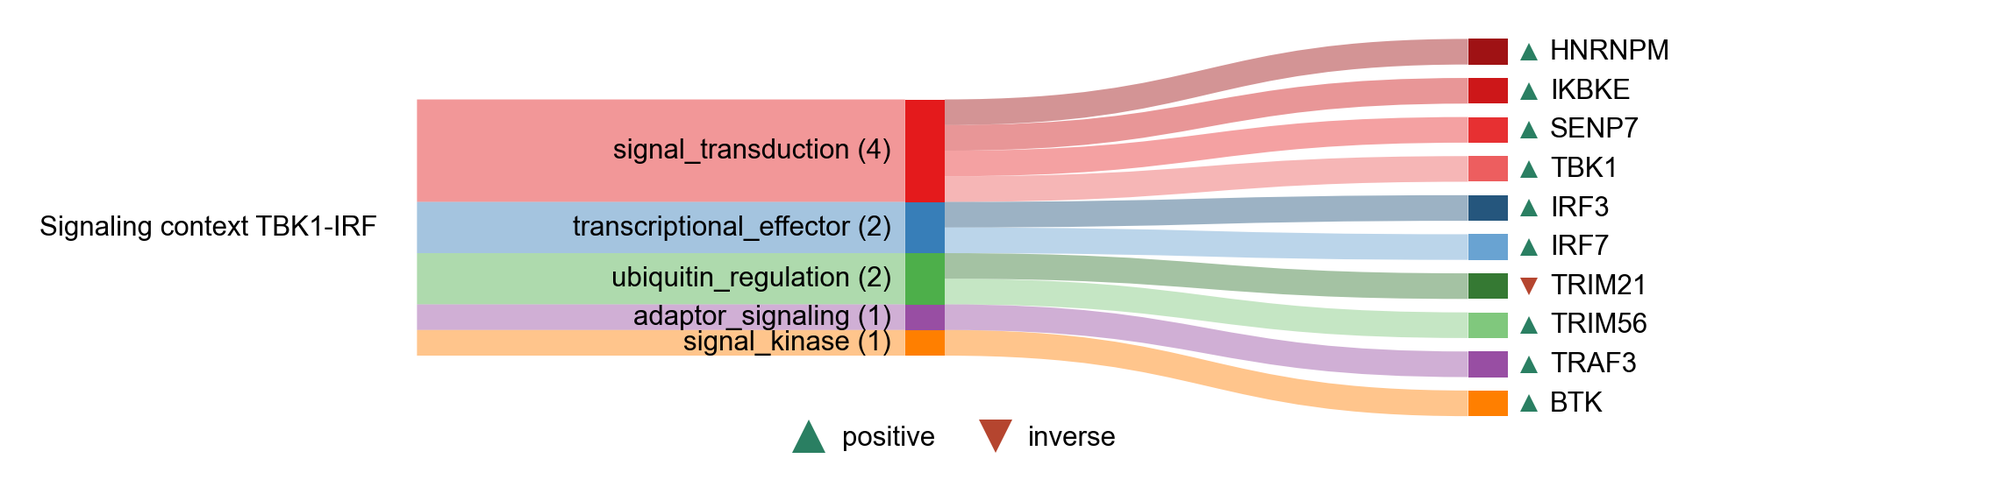
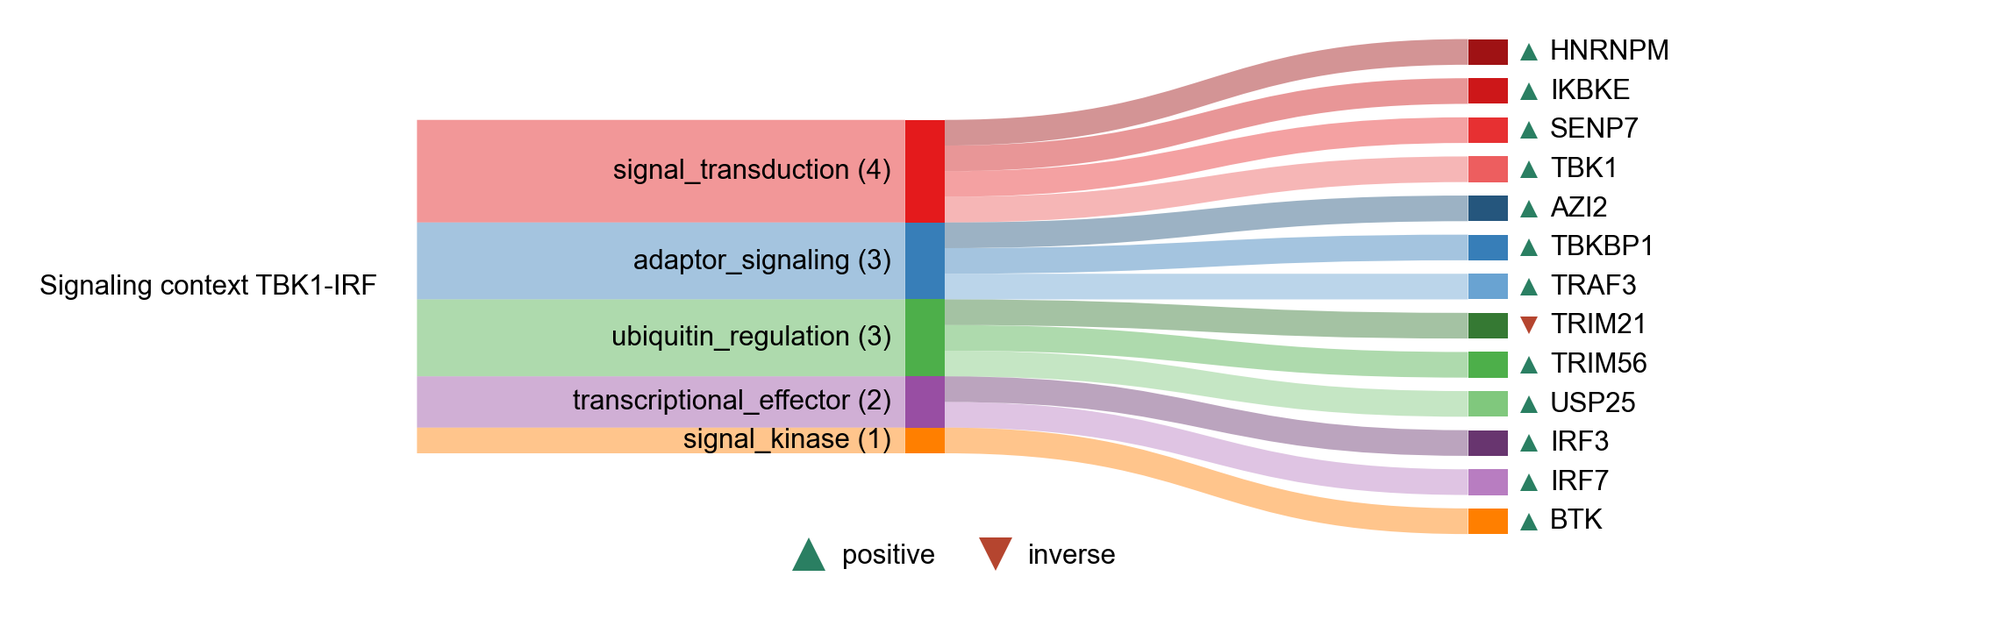
[Fix] Flesh out marker genes and fix duplicate issues

diff --git a/docs/marker_genes/nasp_dna_sensing.md b/docs/marker_genes/nasp_dna_sensing.md
@@ -11,13 +11,13 @@
 | AIM2 | dna_sensing_core | ALR | Early | positive | Immune-enriched | low |  | [10.1038/ni.1702](https://doi.org/10.1038/ni.1702) |  | dna_sensor |  |
 | CGAS | dna_sensing_core | cGAS-STING | Early | positive | Broad | low |  | [10.1126/science.1229963](https://doi.org/10.1126/science.1229963) | MB21D1 | dna_sensor |  |
 | DDX41 | dna_sensing_core | cGAS-STING | Early | positive | Immune-enriched | low |  | [10.1038/ni.2091](https://doi.org/10.1038/ni.2091) |  | dna_sensor; rna_sensor |  |
-| DHX36 | dna_sensing_core | RLR | Early | positive | Immune-enriched | medium | NASP_RNA_SENSING | [10.1038/s41467-019-10432-5](https://doi.org/10.1038/s41467-019-10432-5) |  | dna_sensor; rna_sensor |  |
+| DHX36 | dna_sensing_core | Multi | Early | positive | Immune-enriched | medium | NASP_RNA_SENSING | [10.1038/s41467-019-10432-5](https://doi.org/10.1038/s41467-019-10432-5) |  | dna_sensor; rna_sensor |  |
 | DHX9 | dna_sensing_core | RLR | Early | positive | Immune-enriched | medium |  | [10.4049/jimmunol.1101307](https://doi.org/10.4049/jimmunol.1101307) |  | dna_sensor; rna_sensor |  |
 | HNRNPA2B1 | dna_sensing_core |  | Early | positive | Broad | high |  | [10.1126/science.aav0758](https://doi.org/10.1126/science.aav0758) |  | dna_sensor; rna_sensor |  |
 | LRRFIP1 | dna_sensing_core | cGAS-STING | Early | positive | Broad | high |  | [10.1038/ni.1876](https://doi.org/10.1038/ni.1876) |  | dna_sensor; rna_sensor |  |
 | MRE11 | dna_sensing_core | cGAS-STING | Early | positive | Broad | low |  | [10.1073/pnas.1222694110](https://doi.org/10.1073/pnas.1222694110) | MRE11A | dna_damage_sensor |  |
-| POLR3A | dna_sensing_core |  | Early | positive | Broad | low |  | [10.1016/j.cell.2009.06.015](https://doi.org/10.1016/j.cell.2009.06.015) | RPC1 |  |  |
-| POLR3B | dna_sensing_core |  | Early | positive | Broad | low |  | [10.1016/j.cell.2009.06.015](https://doi.org/10.1016/j.cell.2009.06.015) | RPC2 |  |  |
+| POLR3A | dna_sensing_core | RLR | Early | positive | Broad | low |  | [10.1016/j.cell.2009.06.015](https://doi.org/10.1016/j.cell.2009.06.015) | RPC1 |  |  |
+| POLR3B | dna_sensing_core | RLR | Early | positive | Broad | low |  | [10.1016/j.cell.2009.06.015](https://doi.org/10.1016/j.cell.2009.06.015) | RPC2 |  |  |
 | PRKDC | dna_sensing_core |  | Early | positive | Broad | high |  | [10.7554/eLife.00047](https://doi.org/10.7554/eLife.00047) | DNA-PK | dna_sensor |  |
 | RAD50 | dna_sensing_core | cGAS-STING | Early | positive | Broad | medium |  | [10.1038/s41586-023-06889-6](https://doi.org/10.1038/s41586-023-06889-6) |  | dna_sensor |  |
 | RPSA | dna_sensing_core |  | Early | positive | Broad | high |  | [10.1038/s41467-023-43784-0](https://doi.org/10.1038/s41467-023-43784-0) |  | dna_sensor; rna_sensor |  |
@@ -32,10 +32,8 @@
 | XRCC6 | dna_sensing_cosensor | cGAS-STING | Early | positive | Broad | high |  | [10.1111/imm.13318](https://doi.org/10.1111/imm.13318) | ku70 | dna_sensor |  |
 | ZCCHC3 | dna_sensing_cosensor | cGAS-STING | Early | positive | Broad | low |  | [10.1038/s41467-018-05559-w](https://doi.org/10.1038/s41467-018-05559-w) |  | dna_sensor |  |
 | ZYG11B | dna_sensing_cosensor | cGAS-STING | Early | positive | Broad | high |  | [10.1016/j.celrep.2023.112278](https://doi.org/10.1016/j.celrep.2023.112278) |  |  |  |
-| METTL3 | dna_sensing_endosomal | TLR | Active | positive | Broad | low |  | [10.1016/j.jbc.2024.107226](https://doi.org/10.1016/j.jbc.2024.107226) |  |  |  |
 | PPT1 | dna_sensing_endosomal | TLR | Active | positive | Broad | medium |  | [10.1038/s41467-023-43650-z](https://doi.org/10.1038/s41467-023-43650-z) |  |  |  |
 | TLR9 | dna_sensing_endosomal | TLR | Early | positive | Immune-enriched | low | IFN_I_OUTPUT | [10.1038/35047123](https://doi.org/10.1038/35047123) |  | dna_sensor |  |
-| YTHDF1 | dna_sensing_endosomal | TLR | Active | positive | Immune-enriched | low |  | [10.1016/j.jbc.2024.107226](https://doi.org/10.1016/j.jbc.2024.107226) |  |  |  |
-| JMJD6 | sensing_checkpoint | cGAS-STING | Active | positive | Broad | medium |  | [10.1126/science.aav0758](https://doi.org/10.1126/science.aav0758) | confirmed |  |  |
+| JMJD6 | sensing_checkpoint | cGAS-STING | Active | positive | Broad | medium |  | [10.1126/science.aav0758](https://doi.org/10.1126/science.aav0758) |  |  |  |
 | KAT5 | sensing_checkpoint | cGAS-STING | Early | positive | Broad | low |  | [10.1073/pnas.1922330117](https://doi.org/10.1073/pnas.1922330117) |  |  |  |
 | TRIM14 | ubiquitin_regulation | cGAS-STING | Active | positive | Broad | medium |  | [10.1016/j.molcel.2016.08.025](https://doi.org/10.1016/j.molcel.2016.08.025) |  |  |  |

diff --git a/docs/marker_genes/nasp_restriction.md b/docs/marker_genes/nasp_restriction.md
@@ -28,7 +28,6 @@
 | TRIM29 | induced_negative_regulator | cGAS-STING | Active | positive | Immune-enriched | high |  | [10.1038/s41467-017-00101-w](https://doi.org/10.1038/s41467-017-00101-w) |  |  |  |
 | TRIM40 | induced_negative_regulator | RLR | Active | positive | Broad | low |  | [10.1016/j.celrep.2017.10.020](https://doi.org/10.1016/j.celrep.2017.10.020) |  |  |  |
 | ZNF598 | induced_negative_regulator | RLR | Active | positive | Broad | low |  | [10.1016/j.celrep.2019.07.081](https://doi.org/10.1016/j.celrep.2019.07.081) |  |  |  |
-| ZNF598 | induced_negative_regulator | RLR | Active | positive | Broad | low |  | [10.1016/j.celrep.2019.07.081](https://doi.org/10.1016/j.celrep.2019.07.081) |  |  |  |
 | BNIP3 | mitophagy_restraint | cGAS-STING | Active | positive | Broad | high |  | [10.1083/jcb.202408166](https://doi.org/10.1083/jcb.202408166) |  |  |  |
 | BNIP3L | mitophagy_restraint |  | Active | positive | Broad | high |  | [10.1038/nature07006](https://doi.org/10.1038/nature07006) | Nix |  |  |
 | PINK1 | mitophagy_restraint | cGAS-STING | Active | positive | Broad | medium |  | [10.1111/acel.13622](https://doi.org/10.1111/acel.13622) |  |  |  |
@@ -44,7 +43,7 @@
 | SKIV2L | rna_restriction |  | Early | positive | Broad | low |  | [10.1038/ni.2948](https://doi.org/10.1038/ni.2948) |  |  |  |
 | AARS1 | sensing_checkpoint | cGAS-STING | Active | positive | Broad | medium |  | [10.1038/s41586-024-07992-y](https://doi.org/10.1038/s41586-024-07992-y) |  | l_lactate_sensor |  |
 | AARS2 | sensing_checkpoint | cGAS-STING | Active | positive | Broad | low |  | [10.1038/s41586-024-07992-y](https://doi.org/10.1038/s41586-024-07992-y) |  | l_lactate_sensor |  |
-| ATG9A | sensing_checkpoint | cGAS-STING | Early | inverse | Broad | low |  | [10.1073/pnas.0911267106](https://doi.org/10.1073/pnas.0911267106) |  |  |  |
+| ATG9A | sensing_checkpoint | cGAS-STING | Early | positive | Broad | low |  | [10.1073/pnas.0911267106](https://doi.org/10.1073/pnas.0911267106) |  |  |  |
 | AURKA | sensing_checkpoint | cGAS-STING | Active | positive | Broad | low |  | [10.1172/JCI161929](https://doi.org/10.1172/JCI161929) |  |  |  |
 | CDK1 | sensing_checkpoint | cGAS-STING | Active | positive | Broad | medium |  | [10.1038/s41421-020-0162-2](https://doi.org/10.1038/s41421-020-0162-2) |  |  |  |
 | DDX46 | sensing_checkpoint | RLR | Active | positive | Broad | medium |  | [10.1038/ni.3830](https://doi.org/10.1038/ni.3830) |  |  |  |
@@ -68,6 +67,5 @@
 | SIRT6 | te_silencing |  | Early | positive | Broad | low |  | [10.1038/ncomms6011](https://doi.org/10.1038/ncomms6011) |  |  |  |
 | TASOR | te_silencing |  | Early | positive | Broad | medium |  | [10.1093/nar/gkae1165](https://doi.org/10.1093/nar/gkae1165) | FAM208A |  |  |
 | TNRC18 | te_silencing |  | Early | positive | Broad | high |  | [10.1038/s41586-023-06688-z](https://doi.org/10.1038/s41586-023-06688-z) |  |  |  |
-| TREX1 | te_silencing | cGAS-STING | Early | positive | Broad | low |  | [10.1038/s41586-018-0784-9](https://doi.org/10.1038/s41586-018-0784-9) |  |  |  |
 | TRIM28 | te_silencing | Multi | Early | positive | Broad | medium |  | [10.1038/nature08674](https://doi.org/10.1038/nature08674) | KAP1 |  |  |
 | ZNF93 | te_silencing | Multi | Early | positive | Broad | low |  | [10.1038/nature13760](https://doi.org/10.1038/nature13760) |  |  |  |

diff --git a/docs/marker_genes/nasp_rna_sensing.md b/docs/marker_genes/nasp_rna_sensing.md
@@ -17,7 +17,7 @@
 | DHX33 | rna_sensing_core | RLR | Active | positive | Broad | low |  | [10.1016/j.immuni.2013.07.001](https://doi.org/10.1016/j.immuni.2013.07.001) |  | rna_sensor |  |
 | DHX36 | rna_sensing_core | RLR | Early | positive | Immune-enriched | medium | NASP_RNA_SENSING | [10.1038/s41467-019-10432-5](https://doi.org/10.1038/s41467-019-10432-5) |  | dna_sensor; rna_sensor |  |
 | DHX58 | rna_sensing_core | RLR | Early | positive | Broad | low |  | [10.1073/pnas.0606699104](https://doi.org/10.1073/pnas.0606699104) | LGP2 | rna_sensor |  |
-| DHX9 | rna_sensing_core | RLR | Early | positive | Immune-enriched | medium |  | [10.4049/jimmunol.1101307](https://doi.org/10.4049/jimmunol.1101307) |  | dna_sensor; rna_sensor |  |
+| DHX9 | rna_sensing_core | Multi | Early | positive | Immune-enriched | medium |  | [10.4049/jimmunol.1101307](https://doi.org/10.4049/jimmunol.1101307) |  | dna_sensor; rna_sensor |  |
 | EIF2AK2 | rna_sensing_core | PKR | Early | positive | Broad | high | NASP_RNA_SENSING | [10.1073/pnas.75.3.1121](https://doi.org/10.1073/pnas.75.3.1121) |  | rna_sensor |  |
 | HNRNPA2B1 | rna_sensing_core |  | Early | positive | Broad | high |  | [10.1126/science.aav0758](https://doi.org/10.1126/science.aav0758) |  | dna_sensor; rna_sensor |  |
 | IFIH1 | rna_sensing_core | RLR | Early | positive | Broad | medium |  | [10.1038/nature04734](https://doi.org/10.1038/nature04734) | MDA5 | rna_sensor |  |
@@ -47,7 +47,6 @@
 | TLR3 | rna_sensing_endosomal | TLR | Early | positive | Immune-enriched | low | IFN_I_OUTPUT | [10.1038/35099560](https://doi.org/10.1038/35099560) |  | rna_sensor |  |
 | TLR7 | rna_sensing_endosomal | TLR | Early | positive | Immune-enriched | low | IFN_I_OUTPUT | [10.1126/science.1093620](https://doi.org/10.1126/science.1093620) |  | rna_sensor |  |
 | TLR8 | rna_sensing_endosomal | TLR | Early | positive | Immune-enriched | low | NFKB_CYTOKINE_OUTPUT\|IFN_I_OUTPUT | [10.1126/science.1093620](https://doi.org/10.1126/science.1093620) |  | rna_sensor |  |
-| XIST | rna_sensing_endosomal | TLR | Early | Positive | Broad | high |  | [10.1172/jci.insight.169344](https://doi.org/10.1172/jci.insight.169344) |  |  |  |
 | ITPRIP | sensing_checkpoint | RLR | Active | positive | Broad | medium |  | [10.1128/jvi.00507-18](https://doi.org/10.1128/jvi.00507-18) |  |  |  |
 | PPP1CA | sensing_checkpoint | RLR | Early | positive | Broad | high |  | [10.1016/j.immuni.2012.11.018](https://doi.org/10.1016/j.immuni.2012.11.018) | PP1α |  |  |
 | PPP1CC | sensing_checkpoint | RLR | Early | positive | Broad | high |  | [10.1016/j.immuni.2012.11.018](https://doi.org/10.1016/j.immuni.2012.11.018) | PP1γ |  |  |

diff --git a/docs/marker_genes/autophagy.md b/docs/marker_genes/autophagy.md
@@ -4,9 +4,17 @@
 
 | Gene | Module Class | Sensor Family | Activation Tier | Scoring Direction | Cell Type Breadth | Detectability | Also in Module(s) | DOI | Aliases | Is_Sensor | Panel Source |
 | --- | --- | --- | --- | --- | --- | --- | --- | --- | --- | --- | --- |
+| ATG16L1 | autophagy_casm | cGAS-STING | Active | positive | Broad | low |  | [10.1083/jcb.202009128](https://doi.org/10.1083/jcb.202009128) |  |  |  |
+| GABARAP | autophagy_core |  | Active | positive | Broad | high |  | [10.1038/emboj.2010.74](https://doi.org/10.1038/emboj.2010.74) |  |  |  |
+| PIK3C3 | autophagy_core |  | Active | positive | Broad | medium |  | [10.1091/mbc.e08-01-0080](https://doi.org/10.1091/mbc.e08-01-0080) |  |  |  |
+| RB1CC1 | autophagy_core |  | Active | positive | Broad | high |  | [10.1091/mbc.e08-12-1249](https://doi.org/10.1091/mbc.e08-12-1249) | FIP200 |  |  |
+| ULK1 | autophagy_core |  | Active | positive | Broad | medium |  | [10.1091/mbc.e08-12-1249](https://doi.org/10.1091/mbc.e08-12-1249) |  |  |  |
+| WIPI2 | autophagy_core |  | Active | positive | Broad | medium |  | [10.1016/j.molcel.2014.05.021](https://doi.org/10.1016/j.molcel.2014.05.021) |  |  |  |
 | ATG14 | autophagy_modulation |  | Active | positive | Broad | medium |  | [10.1080/15548627.2021.1899440](https://doi.org/10.1080/15548627.2021.1899440) |  |  |  |
 | ATG5 | autophagy_modulation |  | Active | positive | Broad | high |  | [10.1038/s41586-019-1006-9](https://doi.org/10.1038/s41586-019-1006-9) |  |  |  |
 | ATG7 | autophagy_modulation |  | Active | positive | Broad | high |  | [10.1080/15548627.2021.1899440](https://doi.org/10.1080/15548627.2021.1899440) |  |  |  |
 | BECN1 | autophagy_modulation |  | Active | positive | Broad | low |  | [10.1016/j.chom.2014.01.009](https://doi.org/10.1016/j.chom.2014.01.009) |  |  |  |
 | MAP1LC3B | autophagy_modulation |  | Active | positive | Broad | high |  | [10.1038/s41586-019-1006-9](https://doi.org/10.1038/s41586-019-1006-9) |  |  |  |
 | SQSTM1 | autophagy_modulation |  | Active | positive | Broad | high |  | [10.15252/embj.201797858](https://doi.org/10.15252/embj.201797858) |  |  |  |
+| CALCOCO2 | selective_autophagy |  | Active | positive | Broad | medium |  | [10.1038/ni.1800](https://doi.org/10.1038/ni.1800) | NDP52 |  |  |
+| TAX1BP1 | selective_autophagy | TLR | Active | positive | Broad | high | NASP_FEEDBACK | [10.1371/journal.ppat.1006600](https://doi.org/10.1371/journal.ppat.1006600) |  |  |  |

diff --git a/docs/marker_genes/nasp_feedback.md b/docs/marker_genes/nasp_feedback.md
@@ -4,12 +4,14 @@
 
 | Gene | Module Class | Sensor Family | Activation Tier | Scoring Direction | Cell Type Breadth | Detectability | Also in Module(s) | DOI | Aliases | Is_Sensor | Panel Source |
 | --- | --- | --- | --- | --- | --- | --- | --- | --- | --- | --- | --- |
+| CYLD | induced_negative_regulator | RLR | Active | positive | Broad | medium |  | [10.1038/embor.2008.136](https://doi.org/10.1038/embor.2008.136) |  |  |  |
 | DUSP1 | induced_negative_regulator |  | Active | positive | Broad | high |  | [10.1042/BST0341018](https://doi.org/10.1042/BST0341018) |  |  |  |
 | NFKBIA | induced_negative_regulator |  | Early | positive | Broad | high | SENESCENCE\|SASP\|SIGNALING_CONTEXT \| NFKB_CYTOKINE_OUTPUT | [10.1101/cshperspect.a000034](https://doi.org/10.1101/cshperspect.a000034) |  |  |  |
 | SOCS1 | induced_negative_regulator |  | Active | positive | Immune-enriched | medium |  | [10.1038/s41467-018-04013-1](https://doi.org/10.1038/s41467-018-04013-1) |  |  |  |
 | SOCS3 | induced_negative_regulator |  | Active | positive | Broad | high |  | [10.1161/ATVBAHA.110.207464](https://doi.org/10.1161/ATVBAHA.110.207464) |  |  |  |
+| TANK | induced_negative_regulator | TLR | Active | positive | Broad | high | SIGNALING_CONTEXT_TBK1_IRF | [10.1038/ni.1771](https://doi.org/10.1038/ni.1771) |  |  |  |
 | TNFAIP3 | induced_negative_regulator |  | Active | positive | Broad | high | NFKB_CYTOKINE_OUTPUT | [10.1182/blood-2008-08-174110](https://doi.org/10.1182/blood-2008-08-174110) |  |  |  |
+| TNIP1 | induced_negative_regulator | TLR | Active | positive | Broad | high |  | [10.1084/jem.20102177](https://doi.org/10.1084/jem.20102177) | ABIN-1 |  |  |
 | USP18 | induced_negative_regulator |  | Active | positive | Broad | low |  | [10.1042/BSR20180250](https://doi.org/10.1042/BSR20180250) |  |  |  |
 | ZC3H12A | induced_negative_regulator |  | Active | positive | Broad | medium | NASP_FEEDBACK | [10.1038/nature07924](https://doi.org/10.1038/nature07924) |  |  |  |
 | ZFP36 | induced_negative_regulator |  | Active | positive | Broad | high |  | [10.1126/science.281.5379.1001](https://doi.org/10.1126/science.281.5379.1001) |  |  |  |
-| ZFP36 | induced_negative_regulator |  | Active | positive | Broad | high | NASP_FEEDBACK | [10.1126/science.281.5379.1001](https://doi.org/10.1126/science.281.5379.1001) | TTP |  |  |

diff --git a/docs/marker_genes/immunosenescence.md b/docs/marker_genes/immunosenescence.md
@@ -7,10 +7,12 @@
 | B3GAT1 | t_cell_immunosenescence |  | Post-NASP | positive | Broad | medium |  | [10.1182/blood-2002-07-2103](https://doi.org/10.1182/blood-2002-07-2103) | CD57 |  |  |
 | CD27 | t_cell_immunosenescence |  | Post-NASP | inverse | Broad | high |  | [10.1002/cyto.a.22351](https://doi.org/10.1002/cyto.a.22351) |  |  |  |
 | CD28 | t_cell_immunosenescence |  | Post-NASP | inverse | Broad | medium |  | [10.1016/S0145-305X(97)00027-X](https://doi.org/10.1016/S0145-305X(97)00027-X) |  |  |  |
+| CX3CR1 | t_cell_immunosenescence |  | Post-NASP | positive | Immune-enriched | low |  | [10.1016/j.immuni.2016.10.018](https://doi.org/10.1016/j.immuni.2016.10.018) |  |  |  |
 | GZMK | t_cell_immunosenescence |  | Post-NASP | positive | Immune-enriched | high |  | [10.1016/j.immuni.2020.11.005](https://doi.org/10.1016/j.immuni.2020.11.005) |  |  |  |
 | IL7R | t_cell_immunosenescence |  | Post-NASP | inverse | Immune-enriched | high |  | [10.1016/j.cyto.2012.03.013](https://doi.org/10.1016/j.cyto.2012.03.013) | CD127 |  |  |
 | KLRG1 | t_cell_immunosenescence |  | Post-NASP | positive | Broad | medium |  | [10.1016/S0531-5565(03)00134-7](https://doi.org/10.1016/S0531-5565(03)00134-7) |  |  |  |
 | PDCD1 | t_cell_immunosenescence |  | Post-NASP | positive | Broad | low |  | [10.1073/pnas.0908805106](https://doi.org/10.1073/pnas.0908805106) | PD-1 |  |  |
 | PLAUR | t_cell_immunosenescence |  | Post-NASP | positive | Broad | high |  | [10.1038/s41586-020-2403-9](https://doi.org/10.1038/s41586-020-2403-9) | uPAR |  |  |
 | SATB1 | t_cell_immunosenescence |  | Post-NASP | inverse | Immune-enriched | high |  | [10.1016/j.immuni.2016.12.015](https://doi.org/10.1016/j.immuni.2016.12.015) |  |  |  |
+| TCF7 | t_cell_immunosenescence |  | Post-NASP | inverse | Immune-enriched | high |  | [10.1016/j.immuni.2016.07.021](https://doi.org/10.1016/j.immuni.2016.07.021) | TCF1 |  |  |
 | TIGIT | t_cell_immunosenescence |  | Post-NASP | positive | Broad | medium |  | [10.3389/fimmu.2022.833531](https://doi.org/10.3389/fimmu.2022.833531) |  |  |  |

diff --git a/docs/marker_genes/metabolic_context.md b/docs/marker_genes/metabolic_context.md
@@ -4,10 +4,10 @@
 
 | Gene | Module Class | Sensor Family | Activation Tier | Scoring Direction | Cell Type Breadth | Detectability | Also in Module(s) | DOI | Aliases | Is_Sensor | Panel Source |
 | --- | --- | --- | --- | --- | --- | --- | --- | --- | --- | --- | --- |
-| PRKAA1 | ampk_signaling |  | Active | positive | Adipose/Immune-enriched | medium |  | [10.1038/nature09932](https://doi.org/10.1038/nature09932) |  |  |  |
-| PRKAA2 | ampk_signaling |  | Active | positive | Liver-enriched | medium |  | [10.1038/nature09932](https://doi.org/10.1038/nature09932) | AMPKα1 |  |  |
+| PRKAA1 | ampk_signaling |  | Active | positive | Adipose/Immune-enriched | medium |  | [10.1038/nature09932](https://doi.org/10.1038/nature09932) | AMPKα1 |  |  |
+| PRKAA2 | ampk_signaling |  | Active | positive | Liver-enriched | medium |  | [10.1038/nature09932](https://doi.org/10.1038/nature09932) | AMPKα2 |  |  |
 | STK11 | ampk_signaling |  | Active | positive | Broad | medium |  | [10.1016/j.cub.2003.10.031](https://doi.org/10.1016/j.cub.2003.10.031) |  |  |  |
 | MTOR | mtor_signaling |  | Active | positive | Broad | medium | INFLAMMAGING\|SASP | [10.1038/369756a0](https://doi.org/10.1038/369756a0) |  |  |  |
-| RICTOR | mtor_signaling |  | Active | positive | Broad | high |  | [10.1016/j.cub.2004.06.054](https://doi.org/10.1016/j.cub.2004.06.054) | AMPKα2 |  |  |
+| RICTOR | mtor_signaling |  | Active | positive | Broad | high |  | [10.1016/j.cub.2004.06.054](https://doi.org/10.1016/j.cub.2004.06.054) |  |  |  |
 | RPS6KB1 | mtor_signaling |  | Active | positive | Liver/Adipose-enriched | medium |  | [10.1016/S0092-8674(02)00808-5](https://doi.org/10.1016/S0092-8674(02)00808-5) |  |  |  |
 | RPTOR | mtor_signaling |  | Active | positive | Broad | high |  | [10.1016/S0092-8674(02)00833-4](https://doi.org/10.1016/S0092-8674(02)00833-4) |  |  |  |

diff --git a/docs/marker_genes/signaling_context_tbk1_irf.md b/docs/marker_genes/signaling_context_tbk1_irf.md
@@ -4,6 +4,8 @@
 
 | Gene | Module Class | Sensor Family | Activation Tier | Scoring Direction | Cell Type Breadth | Detectability | Also in Module(s) | DOI | Aliases | Is_Sensor | Panel Source |
 | --- | --- | --- | --- | --- | --- | --- | --- | --- | --- | --- | --- |
+| AZI2 | adaptor_signaling | Multi | Active | positive | Broad | medium | SIGNALING_CONTEXT_TLR | [10.4049/jimmunol.177.12.8676](https://doi.org/10.4049/jimmunol.177.12.8676) | NAP1 |  |  |
+| TBKBP1 | adaptor_signaling |  | Active | positive | Broad | low |  | [10.1038/sj.emboj.7601743](https://doi.org/10.1038/sj.emboj.7601743) |  |  |  |
 | TRAF3 | adaptor_signaling | cGAS-STING | Early | positive | Broad | medium | NFKB_CYTOKINE_OUTPUT | [10.1038/s41392-022-01287-2](https://doi.org/10.1038/s41392-022-01287-2) |  |  |  |
 | BTK | signal_kinase | cGAS-STING | Active | positive | Immune-enriched | low |  | [10.1016/j.celrep.2015.01.039](https://doi.org/10.1016/j.celrep.2015.01.039) |  |  |  |
 | HNRNPM | signal_transduction | Multi | Active | positive | Broad | high |  | [10.1038/s44318-024-00331-x](https://doi.org/10.1038/s44318-024-00331-x) |  |  |  |
@@ -14,3 +16,4 @@
 | IRF7 | transcriptional_effector |  | Active | positive | Broad | medium | SIGNALING_CONTEXT | [10.1038/nature03464](https://doi.org/10.1038/nature03464) |  |  |  |
 | TRIM21 | ubiquitin_regulation |  | Active | inverse | Broad | low |  | [10.1038/ni.2492](https://doi.org/10.1038/ni.2492) |  |  |  |
 | TRIM56 | ubiquitin_regulation | cGAS-STING | Active | positive | Broad | medium |  | [10.1038/s41467-018-02936-3](https://doi.org/10.1038/s41467-018-02936-3) |  |  |  |
+| USP25 | ubiquitin_regulation | Multi | Active | positive | Broad | high | SIGNALING_CONTEXT_NFKB | [10.1073/pnas.1509968112](https://doi.org/10.1073/pnas.1509968112) |  |  |  |

diff --git a/docs/marker_genes/inflammaging.md b/docs/marker_genes/inflammaging.md
@@ -42,7 +42,7 @@
 | CD36 | myeloid_activation |  | Post-NASP | positive | Broad | high |  | [10.1038/s42255-019-0142-8](https://doi.org/10.1038/s42255-019-0142-8) |  |  |  |
 | CD38 | myeloid_activation |  | Post-NASP | positive | Immune-enriched | medium |  | [10.1016/j.cmet.2016.05.006](https://doi.org/10.1016/j.cmet.2016.05.006) |  |  |  |
 | CD68 | myeloid_activation |  | Post-NASP | positive | Liver/Immune-enriched | high |  | [10.1007/s11357-022-00536-0](https://doi.org/10.1007/s11357-022-00536-0) |  |  |  |
-| CHIT1 | myeloid_activation |  | Post-NASP | positive | Immune-enriched | low |  | [10.1146/annurev-physiol-012110-142250](https://doi.org/10.1146/annurev-physiol-012110-142250) | PAI1 |  |  |
+| CHIT1 | myeloid_activation |  | Post-NASP | positive | Immune-enriched | low |  | [10.1146/annurev-physiol-012110-142250](https://doi.org/10.1146/annurev-physiol-012110-142250) |  |  |  |
 | CSF1 | myeloid_activation |  | Post-NASP | positive | Broad | medium | SASP | [10.1038/s43587-025-00938-7](https://doi.org/10.1038/s43587-025-00938-7) |  |  | Franceschi et al., Nature Aging, 2025 |
 | GPNMB | myeloid_activation |  | Post-NASP | positive | Adipose/Immune-enriched | high |  | [10.3389/fimmu.2021.674739](https://doi.org/10.3389/fimmu.2021.674739) |  |  |  |
 | LGALS3 | myeloid_activation |  | Post-NASP | positive | Broad | high |  | [10.1038/s41586-026-10542-3](https://doi.org/10.1038/s41586-026-10542-3) |  |  |  |

diff --git a/docs/marker_genes/cgamp_transport.md b/docs/marker_genes/cgamp_transport.md
@@ -9,6 +9,8 @@
 | GJB1 | cgamp_transport | cGAS-STING | Early | positive | Broad | low |  | [10.3389/fimmu.2023.1150705](https://doi.org/10.3389/fimmu.2023.1150705) | Cx32 |  |  |
 | GJC1 | cgamp_transport | cGAS-STING | Early | positive | Broad | low |  | [10.3389/fimmu.2023.1150705](https://doi.org/10.3389/fimmu.2023.1150705) | Cx45 |  |  |
 | LRRC8A | cgamp_transport | cGAS-STING | Early | positive | Broad | medium |  | [10.3389/fimmu.2023.1150705](https://doi.org/10.3389/fimmu.2023.1150705) |  |  |  |
+| LRRC8C | cgamp_transport | cGAS-STING | Early | positive | Broad | medium |  | [10.1016/j.molcel.2020.10.021](https://doi.org/10.1016/j.molcel.2020.10.021) |  |  |  |
+| LRRC8E | cgamp_transport | cGAS-STING | Early | positive | Broad | low |  | [10.1016/j.molcel.2020.10.021](https://doi.org/10.1016/j.molcel.2020.10.021) |  |  |  |
 | P2RX7 | cgamp_transport | cGAS-STING | Early | positive | Immune-enriched | medium |  | [10.3389/fimmu.2023.1150705](https://doi.org/10.3389/fimmu.2023.1150705) |  |  |  |
 | SLC19A1 | cgamp_transport | cGAS-STING | Early | positive | Broad | low |  | [10.3389/fimmu.2023.1150705](https://doi.org/10.3389/fimmu.2023.1150705) |  |  |  |
 | SLC46A2 | cgamp_transport | cGAS-STING | Early | positive | Immune-enriched | low |  | [10.3389/fimmu.2023.1150705](https://doi.org/10.3389/fimmu.2023.1150705) |  |  |  |

diff --git a/docs/marker_genes/signaling_context_tlr.md b/docs/marker_genes/signaling_context_tlr.md
@@ -10,6 +10,8 @@
 | TIRAP | adaptor_signaling | TLR | Early | positive | Broad | low |  | [10.1155/2023/2899271](https://doi.org/10.1155/2023/2899271) |  |  |  |
 | TRAF6 | adaptor_signaling | cGAS-STING | Early | positive | Broad | low |  | [10.1016/j.bbrc.2019.05.022](https://doi.org/10.1016/j.bbrc.2019.05.022) |  |  |  |
 | UNC93B1 | adaptor_signaling | TLR | Early | positive | Broad | low |  | [10.7554/eLife.00291](https://doi.org/10.7554/eLife.00291) |  |  |  |
+| METTL3 | dna_sensing_endosomal | TLR | Active | positive | Broad | low |  | [10.1016/j.jbc.2024.107226](https://doi.org/10.1016/j.jbc.2024.107226) |  |  |  |
+| YTHDF1 | dna_sensing_endosomal | TLR | Active | positive | Immune-enriched | low |  | [10.1016/j.jbc.2024.107226](https://doi.org/10.1016/j.jbc.2024.107226) |  |  |  |
 | IRAK1 | signal_kinase | TLR | Early | positive | Broad | low | SIGNALING_CONTEXT\|IFN_I_OUTPUT | [10.1084/jem.20042372](https://doi.org/10.1084/jem.20042372) |  |  |  |
 | IRAK4 | signal_kinase | TLR | Early | positive | Broad | low | SIGNALING_CONTEXT\|IFN_I_OUTPUT | [10.1016/j.immuni.2005.09.016](https://doi.org/10.1016/j.immuni.2005.09.016) |  |  |  |
 | IRAK2 | signal_transduction | TLR | Active | positive | Broad | medium |  | [10.3389/fimmu.2023.1133354](https://doi.org/10.3389/fimmu.2023.1133354) |  |  |  |

diff --git a/docs/marker_genes/te_derepression.md b/docs/marker_genes/te_derepression.md
@@ -6,5 +6,4 @@
 | --- | --- | --- | --- | --- | --- | --- | --- | --- | --- | --- | --- |
 | ATF3 | te_activator | RLR | Active | positive | Broad | high |  | [10.1038/s43587-024-00745-6](https://doi.org/10.1038/s43587-024-00745-6) |  |  |  |
 | FOXA1 | te_activator | cGAS-STING | Early | positive | Liver-enriched | medium |  | [10.1038/s41586-018-0784-9](https://doi.org/10.1038/s41586-018-0784-9) |  |  |  |
-| MECP2 | te_activator | cGAS-STING | Early | positive | Broad | high |  | [10.1038/s41467-025-65713-z](https://doi.org/10.1038/s41467-025-65713-z) |  |  |  |
 | SMARCA4 | te_repressor |  | Active | inverse | Broad | high |  | [10.1126/sciadv.adn2811](https://doi.org/10.1126/sciadv.adn2811) |  |  |  |
